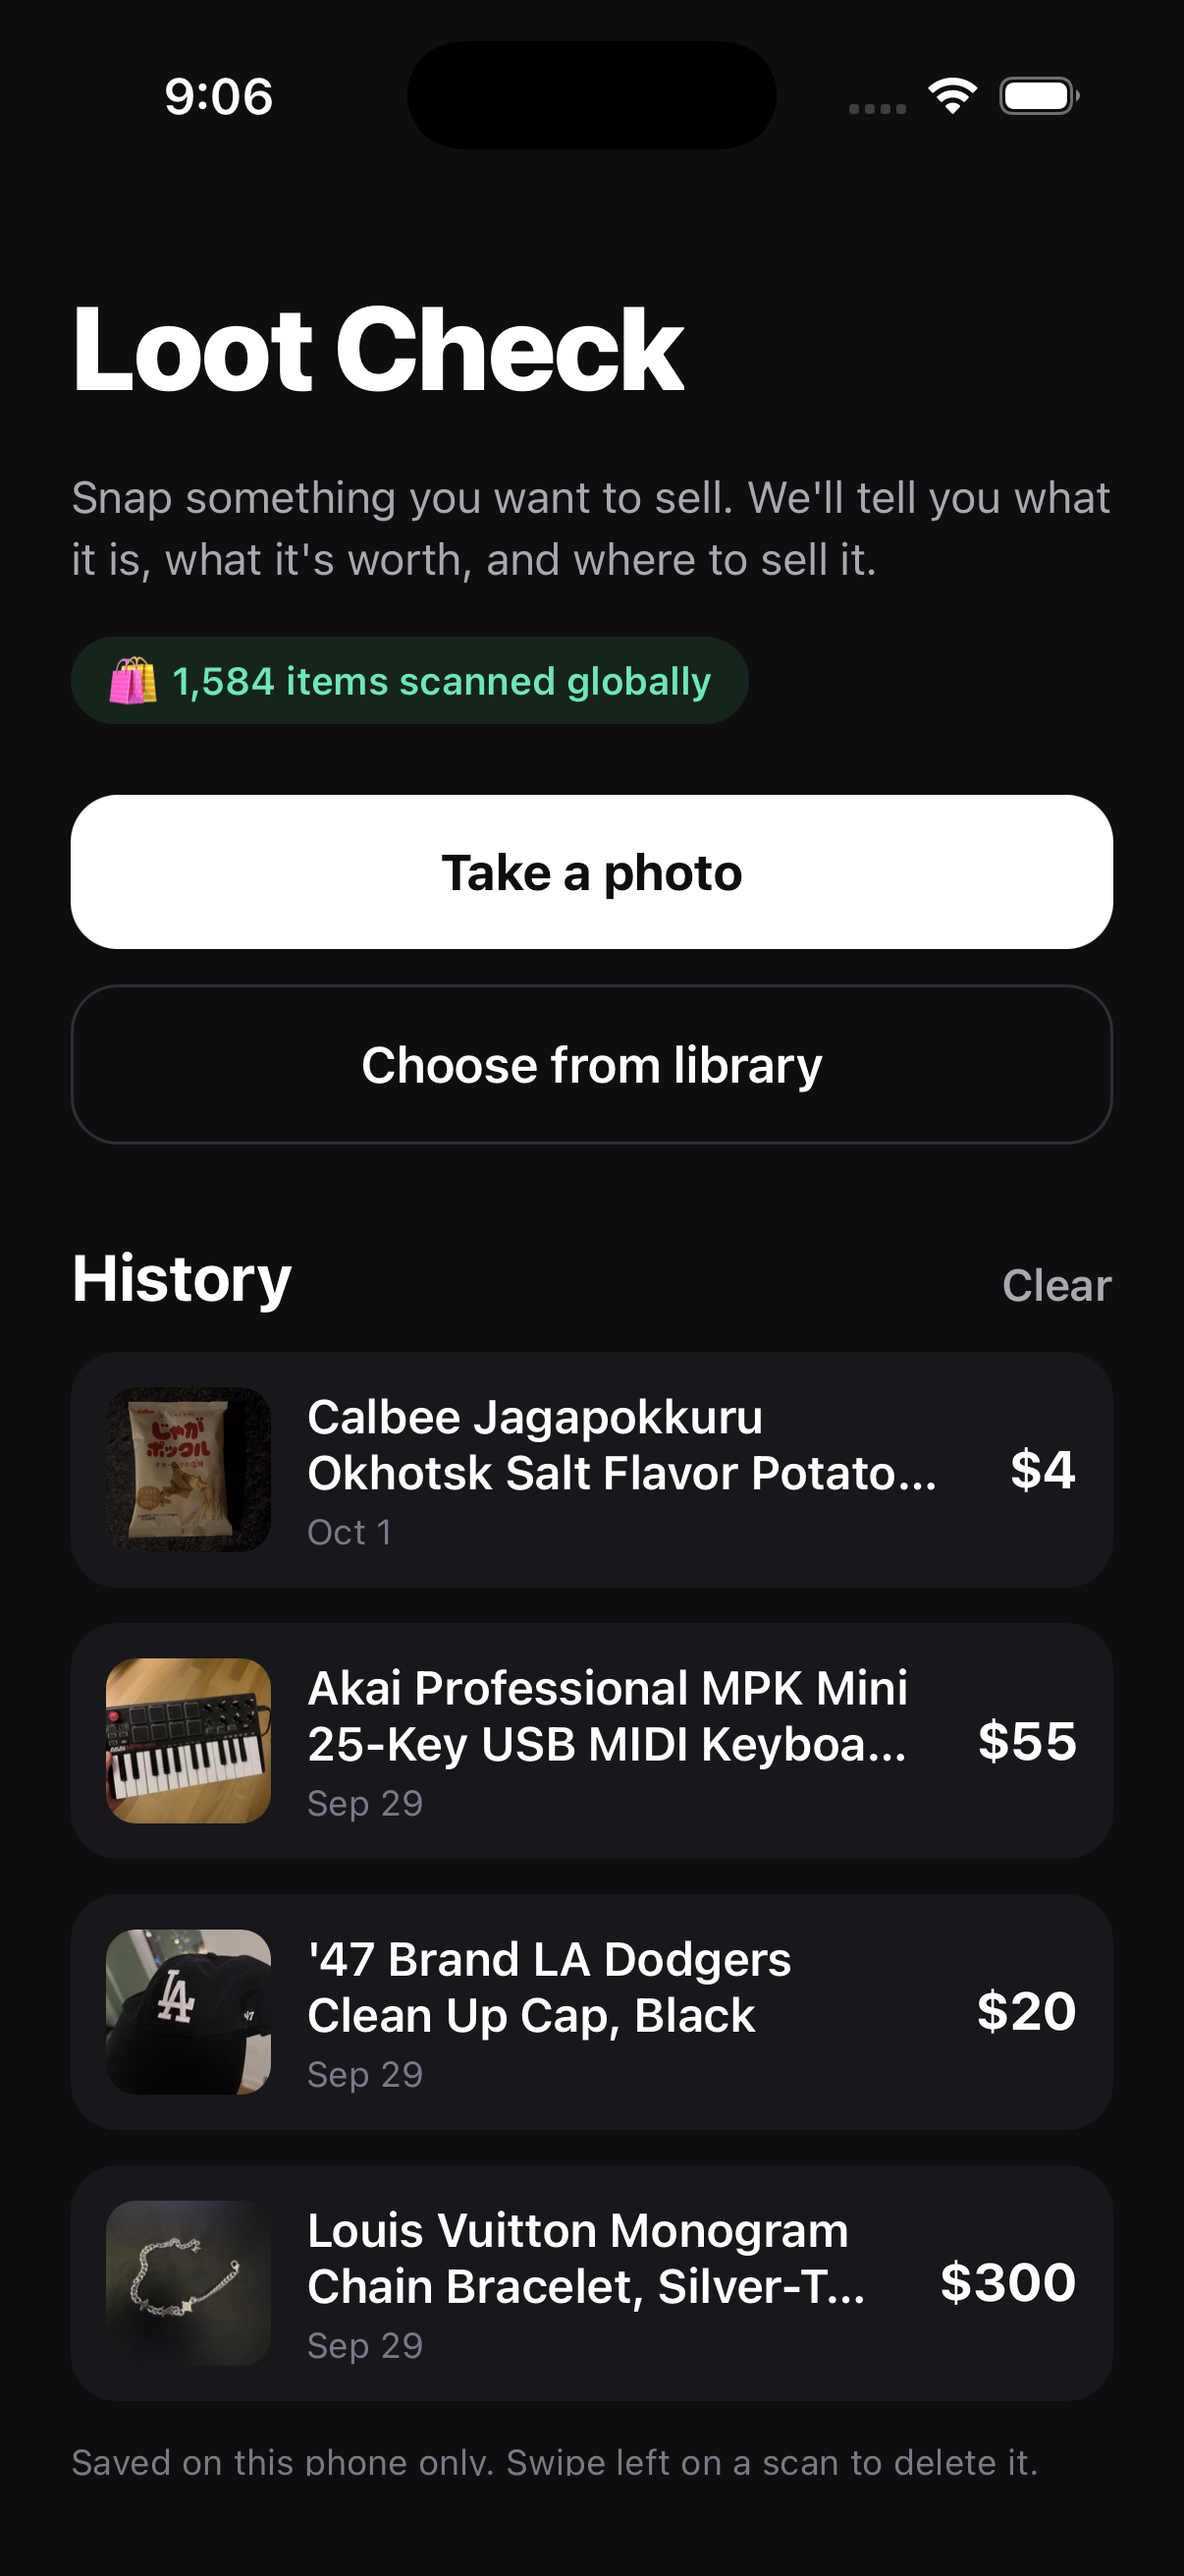
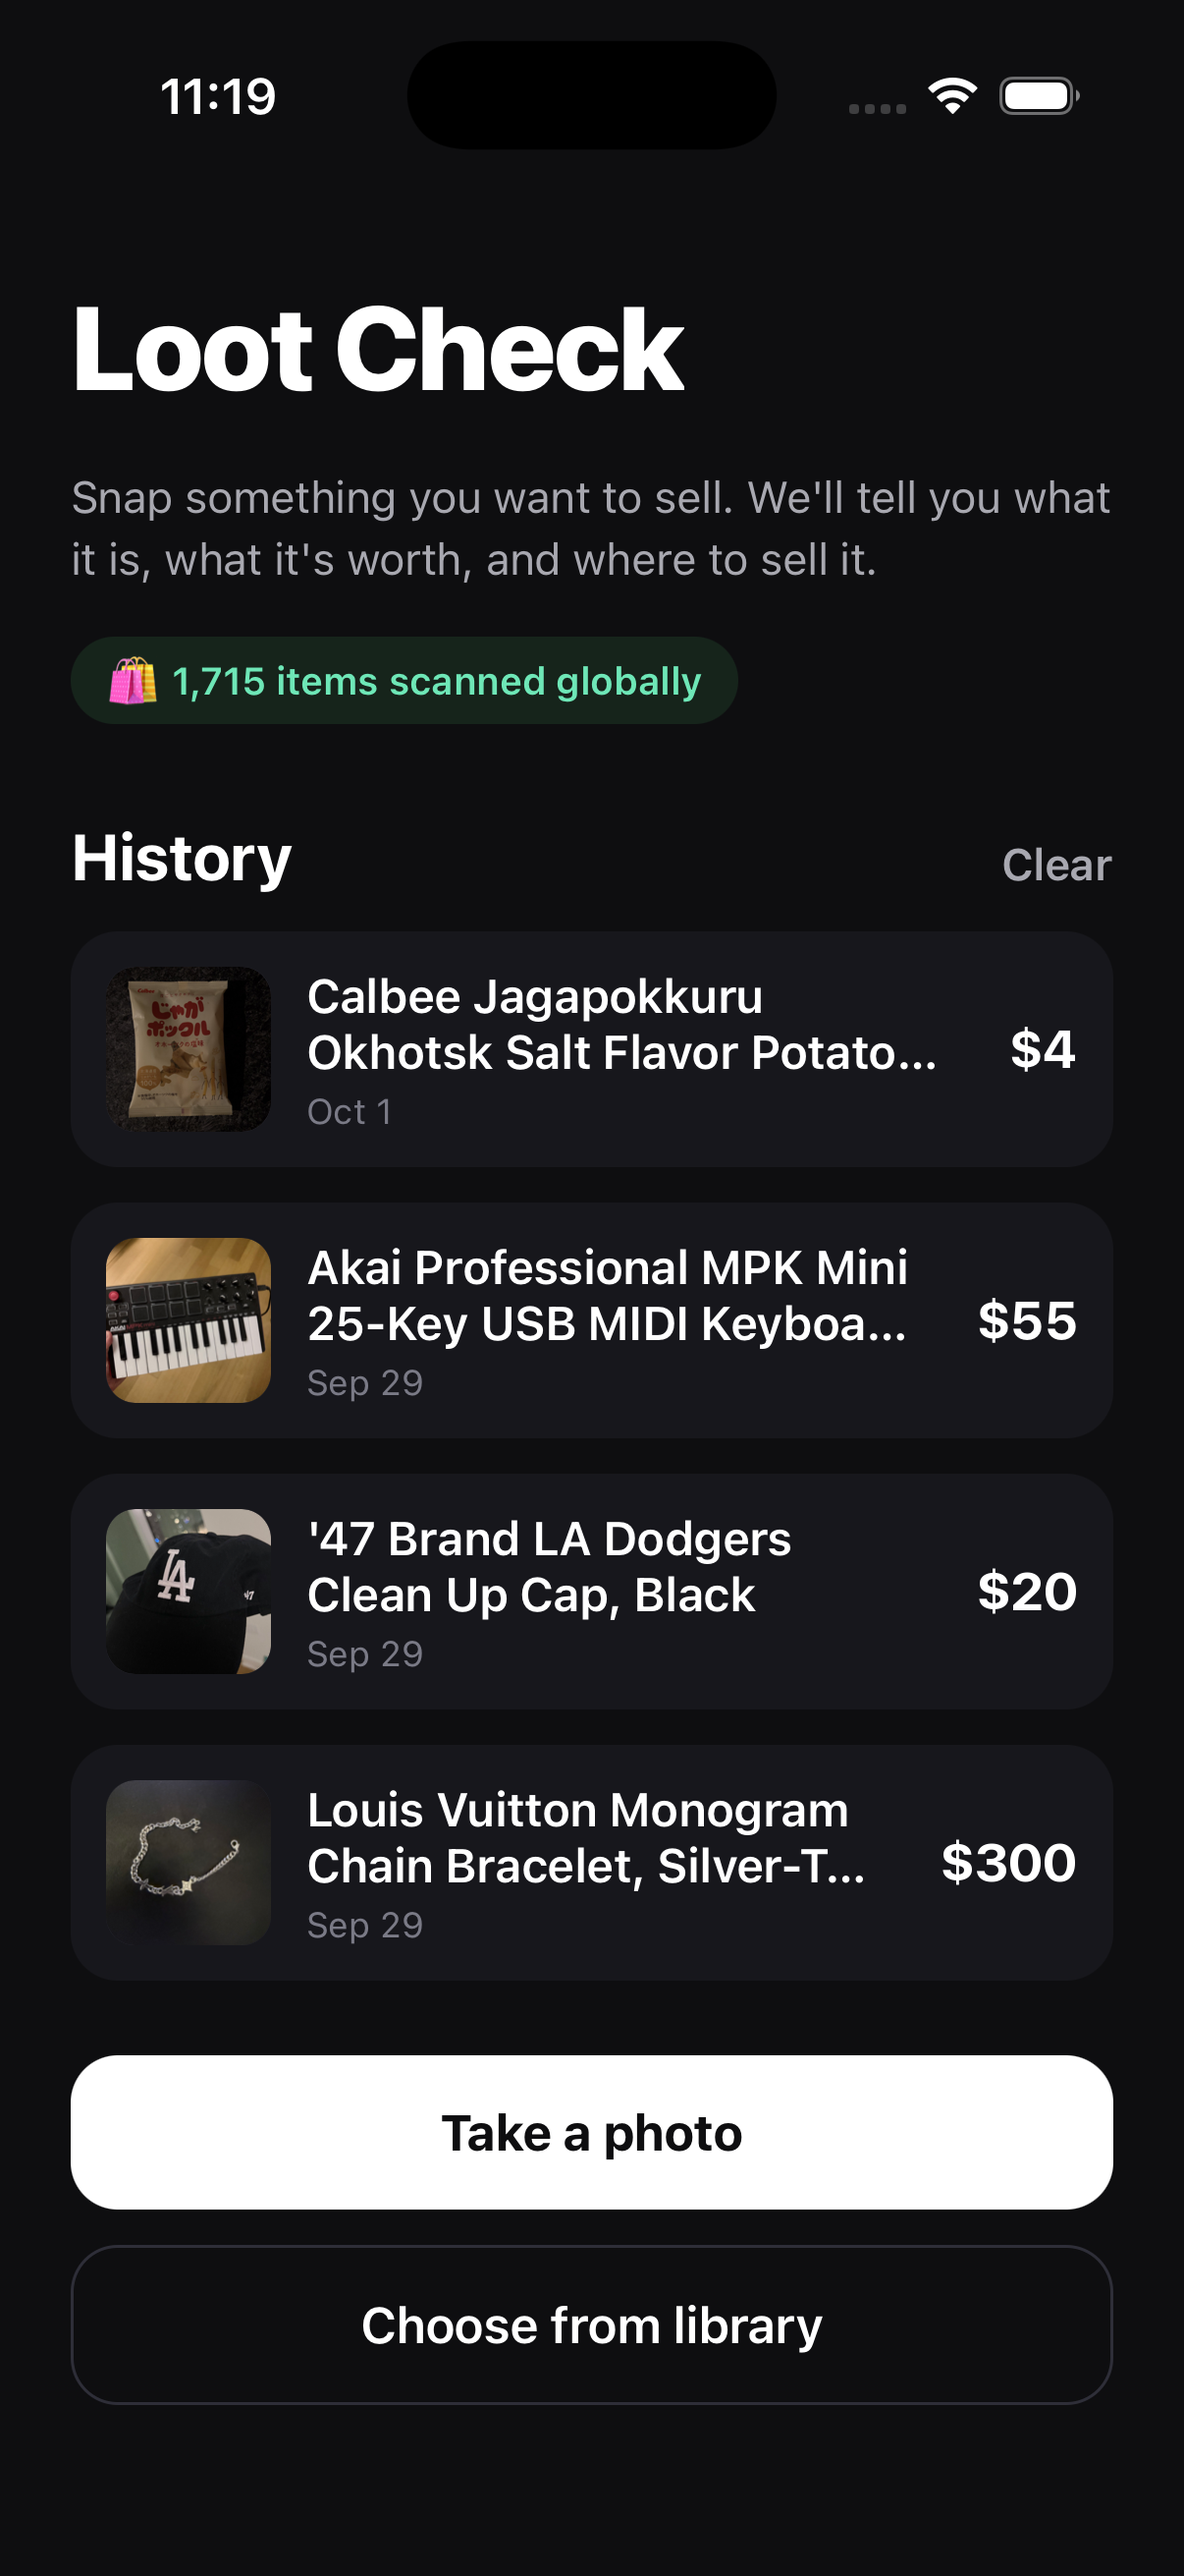
Replace the Loot Check home screen shot with the buttons-below-history layout

diff --git a/src/data/case-studies.ts b/src/data/case-studies.ts
@@ -294,7 +294,7 @@ export const caseStudies: Record<string, CaseStudy> = {
         items: [
           {
             src: "/projects/loot-check-ui-home.png",
-            alt: "The Loot Check home screen: the title, a line saying to snap something you want to sell, a green 1,584 items scanned globally badge, Take a photo and Choose from library buttons, and a History list of Calbee Jagapokkuru potato snacks at $4, an Akai MPK Mini at $55, a '47 Brand LA Dodgers cap at $20, and a Louis Vuitton chain bracelet at $300",
+            alt: "The Loot Check home screen: the title, a line saying to snap something you want to sell, a green 1,715 items scanned globally badge, a History list of Calbee Jagapokkuru potato snacks at $4, an Akai MPK Mini at $55, a '47 Brand LA Dodgers cap at $20, and a Louis Vuitton chain bracelet at $300, and Take a photo and Choose from library buttons below it",
           },
           {
             src: "/projects/loot-check-ui-photo-added.png",
